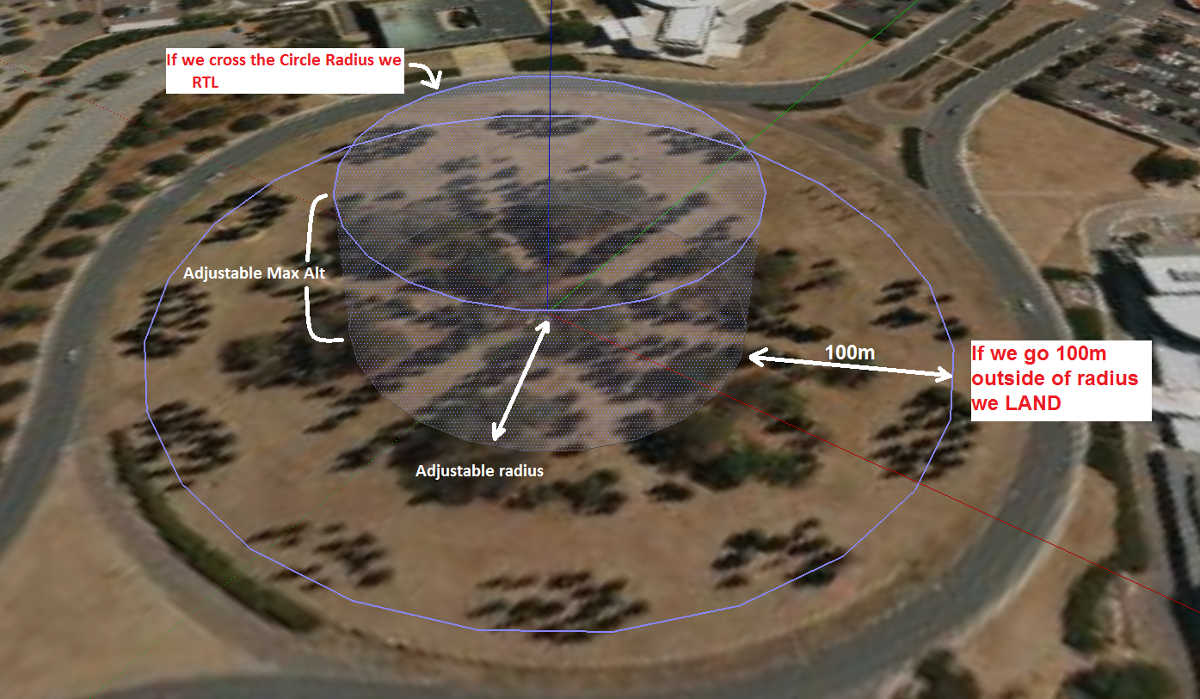
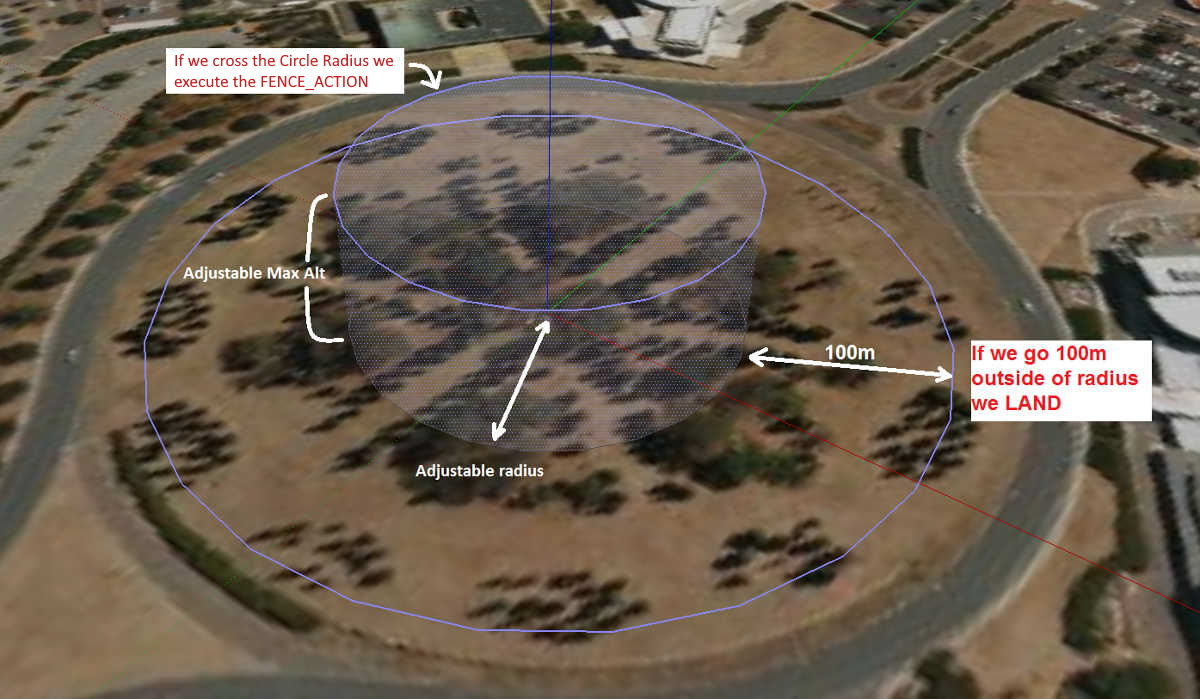
Update cylindrical fence page and diagram

diff --git a/common/source/docs/common-ac2_simple_geofence.rst b/common/source/docs/common-ac2_simple_geofence.rst
@@ -8,29 +8,42 @@ Cylindrical GeoFence
 Overview
 ========
 
-AC 3.0.1 (and higher) includes a simple "tin can" shaped fence centered
+Copter and Rover include a simple "tin can" shaped fence centered
 on home that will attempt to stop your copter from flying too far away
-by stopping at the fence (if in Loiter mode and using Copter-3.4 or higher) or initiating an RTL.
-The maximum circular distance and altitude and the vehicle behavior when the fence is reached can be configured using
+by stopping at the fence (BRAKE or HOLD), LANDing, or initiating an RTL.
+The maximum circular distance and altitude (altitude used by Copter only) and the vehicle behavior when the fence is reached can be configured using
 Mission Planner.
 
-.. image:: ../../../images/copter_simple_tincan_geofence.jpg
-    :target: ../_images/copter_simple_tincan_geofence.jpg
+If the vehicle strays outside these borders it will execute the :ref:`FENCE_ACTION<FENCE_ACTION>`.
 
-If the vehicle strays outside these borders it will switch into RTL or
-LAND.  At the moment the fence is breached a backup fence is erected 20m
-further out (or up).  If the copter breaches this backup fence (for
++------------+--------------------+-------------------+
++FENCE_ACTION|  Copter            | Rover             +
++============+====================+===================+
++     0      |   Report Only                          +
++------------+--------------------+-------------------+
++     1      | RTL/LAND           | RTL/HOLD          +
++------------+--------------------+-------------------+
++     2      |LAND                | HOLD              +
++------------+--------------------+-------------------+
++     3      |  SmartRTL/RTL/LAND | SmartRTL/RTL/HOLD +
++------------+--------------------+-------------------+
++     4      | BRAKE/LAND         |SmartRTL/RTL/HOLD  +
++------------+--------------------+-------------------+
+
+.. note:: RTL/HOLD,etc. means it will attempt RTL first, but if it cant' switch to that mode (ie for RTL, GPS lock is lost), it will attempt to switch to the next,in this case HOLD.
+
+At the moment the fence is breached a backup fence is erected 20m
+further out (or up).  If the vehicle breaches this backup fence (for
 example if the the vehicle is not set up correctly or the operator takes
-control but is unable to bring the copter back towards home) the copter
-will be switched into RTL again (and another backup fence an additional
-20m further out will be created).
+control but is unable to bring the copter back towards home), the vehicle
+will execute the :ref:`FENCE_ACTION<FENCE_ACTION>` again (and another backup fence an additional
+20m further out will be created if this is breached again).
 
-If the copter eventually flies 100m outside the configured fence
-distance, the vehicle will switch into LAND mode.  The idea being that
-it's clearly impossible to get the copter home so best to just bring it
-down.  The pilot can still retake control of course with the flight mode
+If the vehicle eventually proceeds 100m outside the configured fence
+distance, despite the backup fences, the vehicle will switch into LAND mode (HOLD for Rover).  The idea being that it's clearly impossible to get the vehicle home so best to just bring it
+down/stop it.  The pilot can still retake control of course with the flight mode
 switches.  Like with the earlier fences, another fence is erected 20m
-out which will again switch the copter to LAND if it continues away from
+out which will again switch the vehicle to LAND (HOLD for Rover), if it continues away from
 home.
 
 Enabling the Fence in Mission Planner
@@ -42,21 +55,26 @@ Enabling the Fence in Mission Planner
 The Fence can be set-up by doing the following:
 
 -  Connect your autopilot to the Mission Planner
--  Go to the **Config/Tuning \| GeoFence** screen
--  Click the **Enable** button
--  Leave the "Type" as "Altitude and Circle" (unless you want only an
-   Altitude limit or only a Circular fence in which case you can select
-   "Altitude" or "Circle")
--  Leave the Action as "RTL or Land"
--  Set "Max Alt" to the altitude limit you want (in meters)
--  Set "Max Radius" to the maximum distance from home you want (in
-   meters).  This should normally be at least 50m
+-  Go to the **CONFIG/GeoFence** screen
+-  Enable the FENCE: :ref:`FENCE_ENABLE<FENCE_ENABLE>` =1.
+
+.. note:: The fence can be enabled/disabled by an RC channel, or Mission Command (DO_FENCE_EANBLE), be must be enabled with this parameter first.
+
+-  Set :ref:`FENCE_TYPE<FENCE_TYPE>` = default of "ALL" is fine and will allow you to set up an additional :ref:`common-polygon_fence` , unless you want only a cylindrical fence to be active if a polygon fence has also been loaded. Then  you could select "Altitude" or "Circle" or both.
+-  Set :ref:`FENCE_ACTION<FENCE_ACTION>` ="RTL or LAND" ,or whatever you wish for a breach action.
+-  Set :ref:`FENCE_ALT_MAX<FENCE_ALT_MAX>` to the altitude limit you want (in meters). This is unavailable in Rover.
+-  Set :ref:`FENCE_RADIUS<FENCE_RADIUS>` to the maximum distance from HOME you want (in
+   meters).  This should normally be at least 50m.
+
+.. note:: Currently Mission Planner does not support the GeoFences menu for Rover, so these parameters must be entered manually.
+
+.. note:: Rover ignores any altitudes entered, or if a :ref:`FENCE_TYPE<FENCE_TYPE>` involving altitude is selected.
 
 Enabling the fence with an RC Channel Auxiliary Switch
 ======================================================
 
 It is not necessary to set-up a switch to enable or disable the fence
-but if you wish to control the fence with a switch please follow these
+but if you wish to control the fence with a switch follow these
 steps:
 
 for firmware versions before 4.0:
@@ -64,14 +82,15 @@ for firmware versions before 4.0:
 -  Go to the Mission Planner's Config/Tuning > Extended Tuning screen and set
    either "Ch7 Opt" OR "Ch8 Opt" to Fence. These parameters can also be directly set from the Config/Tuning > Full Parameter List screen
    
+.. image:: ../../../images/Fence_MPCh78.png
+    :target: ../_images/Fence_MPCh78.png
+   
 alternatively, for firmware versions 4.0 or later, an RCx_OPTION can be set via the Config/Tuning > Full Parameter List screen:
 
 -  Use an RCx_OPTION set to Fence
 -  holding the switch high (i.e. PWM > 1800) will enable the fence, low
    (under 1800) will disable the fence.
 
-.. image:: ../../../images/Fence_MPCh78.png
-    :target: ../_images/Fence_MPCh78.png
 
 Warnings:
 =========
@@ -86,15 +105,15 @@ Warnings:
 -  If GPS failsafe is not enabled and the Fence is enabled and you lose
    GPS lock while flying the fence will be disabled.
 -  If GPS failsafe is enabled and the Fence is enabled and you lose GPS
-   lock while flying the vehicle will switch to LAND because we no
-   longer know the vehicle position and we want to ensure the copter
-   never travels far outside the fence.  This behaviour will occur
-   regardless of the flight mode.  If a LAND sequence is not desired,
+   lock while piloting, the vehicle will switch to LAND (HOLD for Rover) because we no
+   longer know the vehicle position and we want to ensure the vehicle
+   never travels far outside the fence.  This behavior will occur
+   regardless of the flight mode.  If this is not desired,
    the pilot can retake control by moving the flight mode switch.
 -  The backup fences are created 20m out from the previous breached
    fence not 20m out from the vehicle's position.  This means if you
    choose to override the fence you may have less than 20m to regain
-   vehicle control before the fence switches the copter to RTL (or LAND)
+   vehicle control before the fence switches the vehicle to the :ref:`FENCE_ACTION<FENCE_ACTION>`
    again.  If you really want to override the fence, you should be ready
    to switch the flight mode twice or alternatively set-up the
    enable/disable fence switch.
